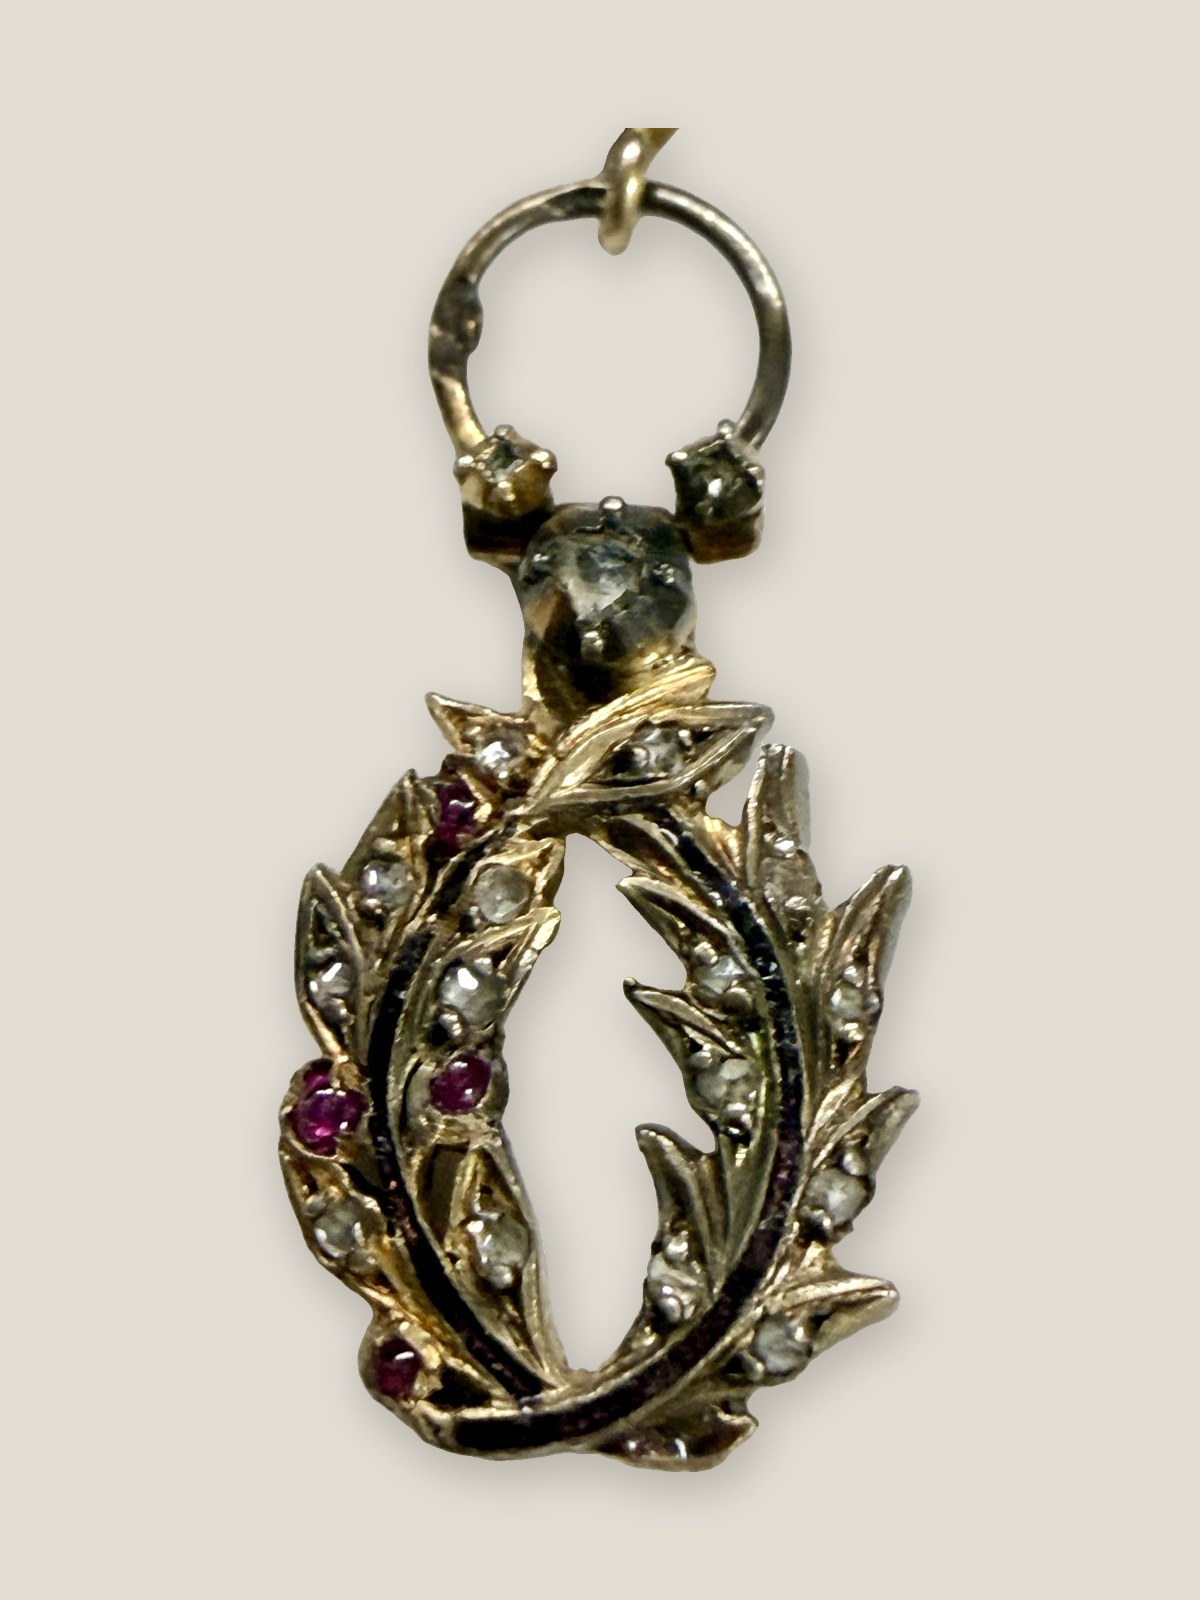
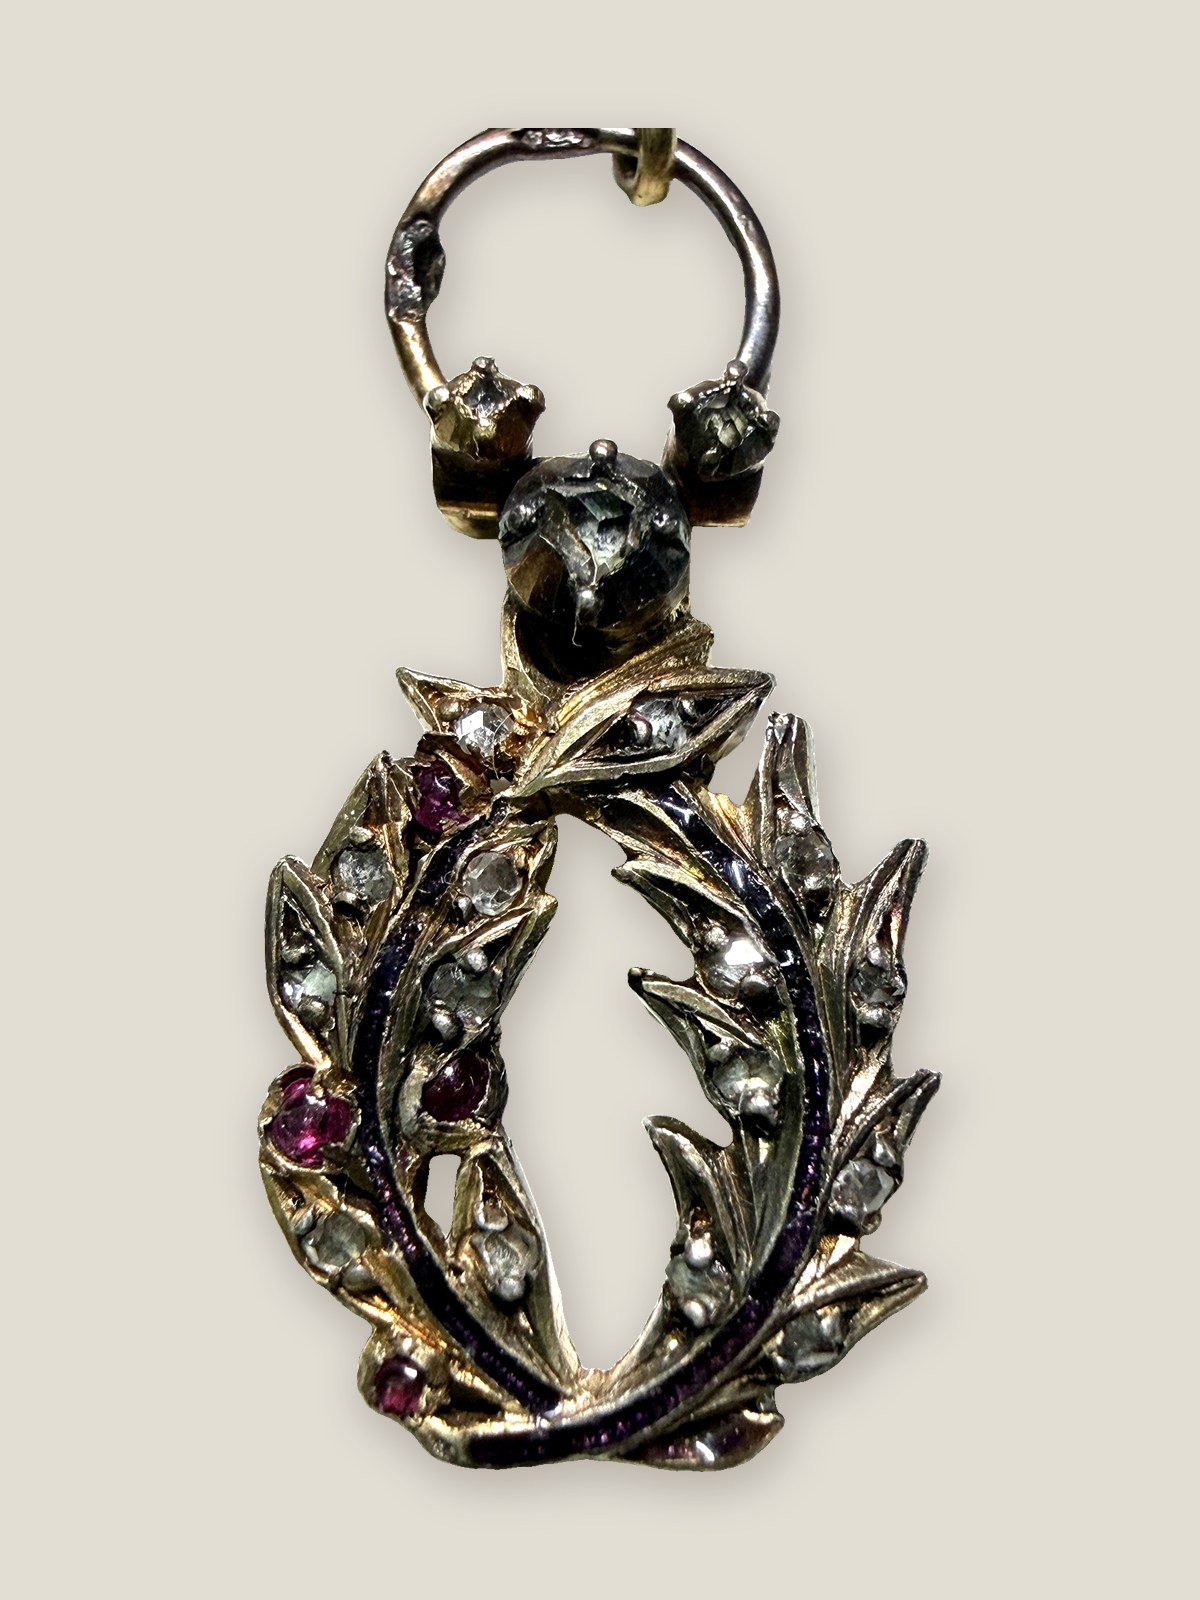
c016 学术棕榈特写换为策展人重拍近照（提亮、加对比）
Claude-Session: https://claude.ai/code/session_0146WwfpqSoST3wS5kAsYEcA

Changed region(s): [[0.2158, 0.0625, 0.8017, 0.9375]]

diff --git a/_notes/站点手册.md b/_notes/站点手册.md
@@ -216,7 +216,7 @@
 
 ## 六、待办与待补
 
-- t028 与 c016 的照片已于 2026 年 10 月到货，全部抠图置浅灰米底，补足 3:4（曾试 3:2 横图，策展人定仍用 3:4）。同月策展人另交一组六张替换首批：封面为链条 U 形下垂、两针朝上的正面照；札记 grid6 两列三行，第一行为整链正面与背面，以下依次为学术棕榈、农业功绩勋章、互助会奖章、突尼斯荣耀勋章的正面特写（c016b 背面，c016c–c016f 特写），左上、右上、左下、右下。四张特写原照顶端裁到吊环，抠图后吊环顶端为直边。首批原图存 `_archive/treasures/t028_v1.jpg` 与 `_archive/chronicles/c016b_v1.jpg`–`c016f_v1.jpg`。整链正面与背面随后换为策展人调亮的版本，前一版存 `_archive/treasures/t028_v2.jpg` 与 `_archive/chronicles/c016b_v2.jpg`。封面其后再换一次策展人新交的正面照，上一版存 `_archive/treasures/t028_v3.jpg`。
+- t028 与 c016 的照片已于 2026 年 10 月到货，全部抠图置浅灰米底，补足 3:4（曾试 3:2 横图，策展人定仍用 3:4）。同月策展人另交一组六张替换首批：封面为链条 U 形下垂、两针朝上的正面照；札记 grid6 两列三行，第一行为整链正面与背面，以下依次为学术棕榈、农业功绩勋章、互助会奖章、突尼斯荣耀勋章的正面特写（c016b 背面，c016c–c016f 特写），左上、右上、左下、右下。四张特写原照顶端裁到吊环，抠图后吊环顶端为直边。首批原图存 `_archive/treasures/t028_v1.jpg` 与 `_archive/chronicles/c016b_v1.jpg`–`c016f_v1.jpg`。整链正面与背面随后换为策展人调亮的版本，前一版存 `_archive/treasures/t028_v2.jpg` 与 `_archive/chronicles/c016b_v2.jpg`。封面其后再换一次策展人新交的正面照，上一版存 `_archive/treasures/t028_v3.jpg`。学术棕榈特写 c016c 随后换为策展人重拍的近照（1512×2016，三张候选中对焦最完整的一张，花枝下半部亦清晰），按策展人指定调整后作原图：亮度 ×1.12 再 ×1.30，对比度以中灰 128 为轴加 10%（不以全图均值为轴，否则浅色背景会把暗色器物压暗）；未调整的相机原片存 `_archive/chronicles/c016c_raw.jpg`，上一版存 `_archive/chronicles/c016c_v2.jpg`。新照吊环完整入画，顶端仅链上跳环出画。
 - 建议重拍（原图长边不足 1000 像素）：r012、c002b、c008d（t014 与 c006b 已于 2026 年 10 月重拍）。r014、t025、r009、c002c、c008c、c009b 在 770 至 960 像素之间，有机会再补。
 - 断代依据（2026 年 10 月核定）：t021 荣誉军团为四共型，正面无「1870」、背面无创设日期，年份写「1951–1962」；t020 弗朗茨·约瑟夫像配战时绶带无剑饰，年份写「1914–1916」；t026 的 1928 年据埃及印记年号「D」，只在札记中说明，灯箱与卡片不写依据。t015 中心花押经与历任贝伊花押对照为穆罕默德八世·拉明的镂空式样：卡片年份保持「约1950」，灯箱著录只写「贝伊签名花押（1943–1957）」，贝伊名与统治期写在札记（2026 年 10 月，策展人决定）。待查：t027 Spink 迁址年份、t014 制作者印记。
 - 著录缺尺寸重量：t002、t017、t020。
